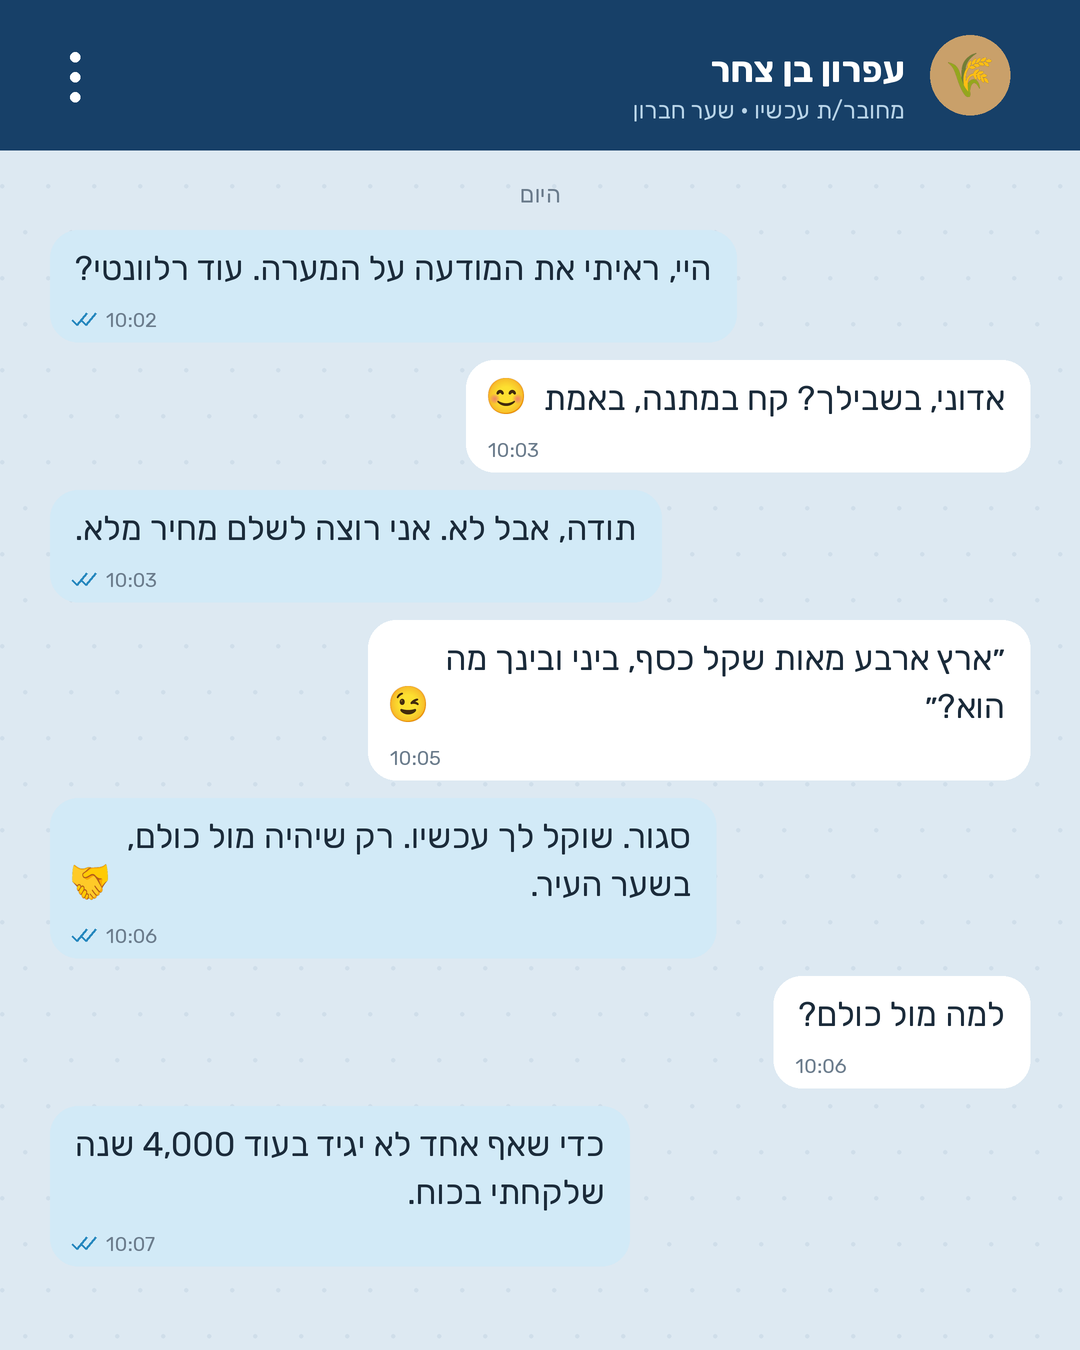
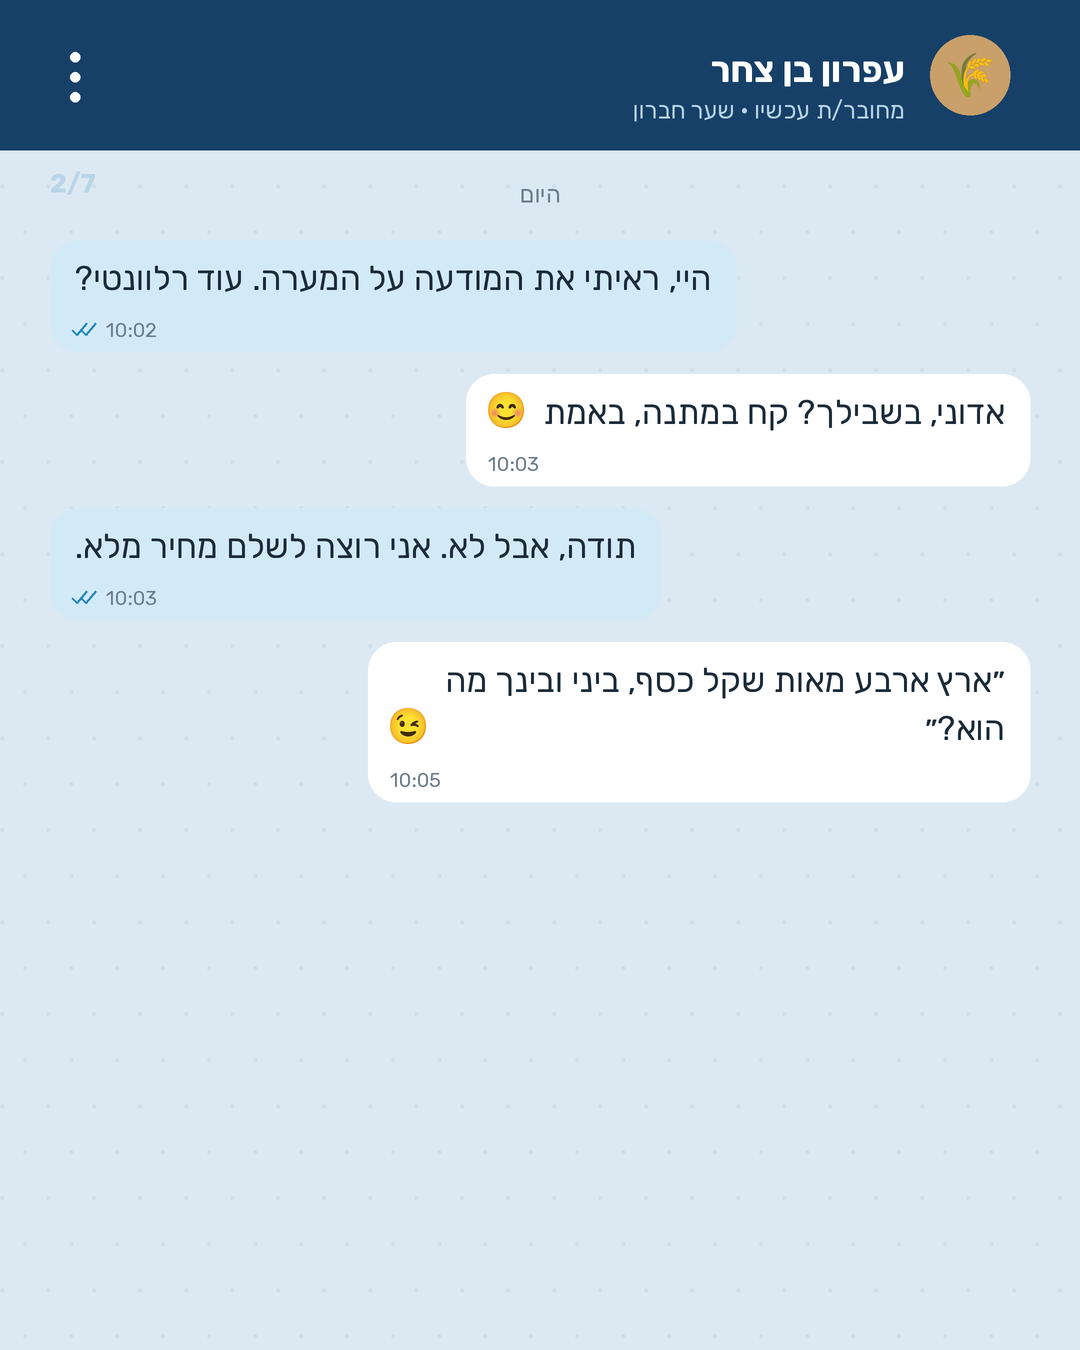
Yesha Hebron chat carousel: all 7 slides + contact sheet
Claude-Session: https://claude.ai/code/session_01RS3QK6pAd3YhyAuXZSJjH1

diff --git a/content-kit/yesha/2026-11-hebron-chat-carousel/make.py b/content-kit/yesha/2026-11-hebron-chat-carousel/make.py
@@ -32,7 +32,7 @@ def wrap(d, s, font, size, width):
     return out + [cur]
 def canvas(bg):
     img = Image.new('RGBA', (W * S, H * S), bg + (255,)); return img, ImageDraw.Draw(img)
-def counter(d, n, total=8, dark=True, y=40):
+def counter(d, n, total=7, dark=True, y=40):
     T(d, (50, y), f'{n}/{total}', RB, 26, SOFT if dark else GREY, anchor='la')
 def save(img, n): img.convert('RGB').resize((W, H), Image.LANCZOS).save(OUT + f'/slide-{n}.png')
 
@@ -82,7 +82,7 @@ CHAT = [('A', 'היי, ראיתי את המודעה על המערה. עוד רל
         ('A', 'סגור. שוקל לך עכשיו. רק שיהיה מול כולם, בשער העיר.', '10:06', '🤝'),
         ('E', 'למה מול כולם?', '10:06'),
         ('A', 'כדי שאף אחד לא יגיד בעוד 4,000 שנה שלקחתי בכוח.', '10:07')]
-def s2():
+def chat(msgs, n, typing=False):
     img, d = canvas((0xDD, 0xE9, 0xF2))
     for k in range(0, W * S, 46 * S):                                   # faint chat wallpaper
         for j in range(0, H * S, 46 * S): d.ellipse((k + (j // (46 * S)) % 2 * 23 * S, j, k + (j // (46 * S)) % 2 * 23 * S + 4 * S, j + 4 * S), fill=(0xCF, 0xDE, 0xEA))
@@ -92,8 +92,9 @@ def s2():
     for k in range(3): d.ellipse(P(70, 52 + k * 20, 80, 62 + k * 20), fill=WHITE)
     d = ImageDraw.Draw(img)
     T(d, (W / 2, 180), 'היום', RR, 24, GREY, anchor='ma')
-    y = 230
-    for msg in CHAT:
+    counter(d, n, y=168)
+    y = 240
+    for msg in msgs:
         who, txt, tm = msg[:3]; em = msg[3] if len(msg) > 3 else None
         me = who == 'A'                                                   # Abraham = me (left in RTL chats)
         lines = wrap(d, txt, RR, 34, 640); bw = max(TW(d, l, RR, 34) for l in lines) + (52 if em else 0) + 50; bh = len(lines) * 48 + 64
@@ -105,14 +106,17 @@ def s2():
         T(d, (x0 + 22 + (34 if me else 0), y + bh - 34), tm, RR, 20, GREY, anchor='la')
         if me:                                                            # read ticks
             for o in (0, 9): d.line(P(x0 + 22 + o, y + bh - 22, x0 + 27 + o, y + bh - 17), fill=MID, width=2 * S); d.line(P(x0 + 27 + o, y + bh - 17, x0 + 37 + o, y + bh - 29), fill=MID, width=2 * S)
-        y += bh + 18
-    save(img, 2)
+        y += bh + 22
+    if typing:
+        d.rounded_rectangle(P(W - 190, y, W - 50, y + 70), 28 * S, fill=WHITE)
+        for k in range(3): d.ellipse(P(W - 155 + k * 32, y + 27, W - 139 + k * 32, y + 43), fill=GREY)
+    save(img, n)
 
 # ---- 5: the receipt ----
-def s5():
+def receipt():
     img, d = canvas(DEEP)
     for y in range(H * S): d.line([(0, y), (W * S, y)], fill=tuple(int(DEEP[i] + (NAVY[i] - DEEP[i]) * y / (H * S)) for i in range(3)))
-    counter(d, 5, y=50)
+    counter(d, 4, y=50)
     x0, y0, x1, y1 = 140, 210, W - 140, 1120
     d.rounded_rectangle(P(x0, y0, x1, y1), 44 * S, fill=WHITE)
     d.ellipse(P(W / 2 - 70, y0 + 60, W / 2 + 70, y0 + 200), fill=(0x2E, 0xB8, 0x6B))
@@ -125,6 +129,41 @@ def s5():
         T(d, (x1 - 50, y), k_, RR, 30, GREY); T(d, (x0 + 50, y), v_, RB, 30, INK, anchor='la'); y += 58
     T(d, (W / 2, y1 - 70), 'בראשית כ״ג, ט״ז–י״ח', RR, 26, GREY, anchor='ma')
     T(d, (W / 2, 1200), 'קבלה. בתוקף מאז.', RB, 44, WHITE, anchor='ma')
-    save(img, 5)
+    save(img, 4)
 
-s1(); s2(); s5(); print('ok')
+
+def dark(n):
+    img, d = canvas(DEEP)
+    for y in range(H * S): d.line([(0, y), (W * S, y)], fill=tuple(int(DEEP[i] + (NAVY[i] - DEEP[i]) * y / (H * S)) for i in range(3)))
+    counter(d, n, y=50); return img, ImageDraw.Draw(img)
+def para(d, s, font, size, y, col, width=860, lh=1.35):
+    for l in wrap(d, s, font, size, width): T(d, (W / 2, y), l, font, size, col, anchor='ma'); y += size * lh
+    return y
+def s5():
+    img, d = dark(5)
+    T(d, (W / 2, 260), 'למה אברהם', KB, 120, SOFT, anchor='ma'); T(d, (W / 2, 390), 'התעקש לשלם?', KB, 150, WHITE, anchor='ma')
+    d.rectangle(P(W / 2 - 80, 600, W / 2 + 80, 606), fill=LB)
+    y = para(d, 'לפי המדרש, יש שלושה מקומות בארץ ישראל שאי אפשר לומר עליהם ״גזולים הם בידכם״:', RR, 40, 660, SOFT)
+    y += 30
+    for k, p in enumerate(('מערת המכפלה', 'הר הבית', 'קבר יוסף')):
+        d.rounded_rectangle(P(240, y, W - 240, y + 86), 43 * S, fill=BLUE); T(d, (W / 2, y + 43), p, RB, 40, WHITE, anchor='mm'); y += 106
+    T(d, (W / 2, 1250), 'בראשית רבה ע״ט, ז׳', RR, 26, SOFT, anchor='ma'); save(img, 5)
+def s6():
+    img, d = dark(6)
+    d.rounded_rectangle(P(70, 120, W - 70, 780), 36 * S, fill=(0x1E, 0x45, 0x6E), outline=LB, width=3 * S)
+    T(d, (W / 2, 430), 'כאן: תמונה אמיתית מחברון', RB, 44, SOFT, anchor='mm'); T(d, (W / 2, 490), '(משבת חיי שרה, מהמועצה)', RR, 30, SOFT, anchor='mm')
+    T(d, (W / 2, 850), '3,800 שנה עברו.', KB, 130, WHITE, anchor='ma')
+    tx = TW(d, 'הקבלה עדיין אצלנו.', KB, 130); d.rectangle(P(W / 2 - tx / 2 - 30, 1010, W / 2 + tx / 2 + 30, 1150), fill=LB)
+    T(d, (W / 2, 1000), 'הקבלה עדיין אצלנו.', KB, 130, DEEP, anchor='ma'); save(img, 6)
+def s7():
+    img, d = dark(7)
+    lw = 300; lg = WL.resize((lw * S, int(lw * S * WL.height / WL.width)), Image.LANCZOS); img.alpha_composite(lg, (int((W - lw) / 2 * S), 200 * S)); d = ImageDraw.Draw(img)
+    T(d, (W / 2, 620), 'שבת חיי שרה', KB, 150, WHITE, anchor='ma'); T(d, (W / 2, 790), 'בחברון', KB, 150, LB, anchor='ma')
+    T(d, (W / 2, 1000), 'מחכים לכם', RB, 56, SOFT, anchor='ma'); save(img, 7)
+
+s1()
+chat(CHAT[:4], 2)
+chat(CHAT[4:] + [('A', 'שלחתי 400 שקל כסף. תאשר קבלה', '10:08')], 3, typing=True)
+receipt(); s5(); s6(); s7(); print('ok')
+
+
